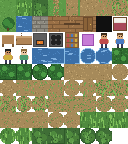
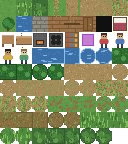
Show cowpaths and overgrowth in the tiles: distinct textures, a legend, +1 day
Worn ground now reads as trodden grass rather than laid road: a track is
grass with bare patches, a cowpath is dark packed earth with grass creeping
in. A legend strip under the header shows every surface at 2x with a label,
and a `+1 day` button skips ahead so the wear and growth can be watched
forming instead of waiting a real half hour per game week.

Claude-Session: https://claude.ai/code/session_01JEHocXSxWmcHsessx9vYd6

diff --git a/packages/viewer/src/main.ts b/packages/viewer/src/main.ts
@@ -2,7 +2,7 @@
 // tools print behind a toggle (and always in `window.__scene()` for the smoke test).
 import * as wasm from "@game-world/sim-wasm";
 import { LocalSim, TICKS_PER_MINUTE, at, type Sim } from "@game-world/protocol";
-import { PlaceCanvas, Tileset } from "./render";
+import { PlaceCanvas, Tileset, legend } from "./render";
 
 const $ = <T extends HTMLElement>(id: string): T => document.getElementById(id) as T;
 const clockEl = $("clock");
@@ -48,6 +48,24 @@ for (const place of world.places) {
   pres.set(place.key, pre);
   canvases.push(canvas);
 }
+// What the ground can look like, so cowpaths and overgrowth are recognisable when they
+// appear. Grass wears to a track and a cowpath where villagers walk; untrodden grass goes
+// tall and then to brush; a laid path goes weedy and then overgrown.
+const legendEl = $("legend");
+legendEl.append(
+  legend(tileset, [
+    ["grass", "grass"],
+    ["track", "track"],
+    ["cowpath", "cowpath"],
+    ["path", "road"],
+    ["weedy_path", "weedy"],
+    ["overgrown_path", "overgrown"],
+    ["tall_grass", "tall grass"],
+    ["brush", "brush"],
+    ["water", "water"],
+  ]),
+);
+
 function fitCanvases(): void {
   const width = placesEl.clientWidth || window.innerWidth;
   for (const c of canvases) c.fit(width - 8);
@@ -177,6 +195,11 @@ $("faster").addEventListener("click", () => {
 });
 $("slower").addEventListener("click", () => {
   speedIndex = Math.max(speedIndex - 1, 0);
+  drawnTick = -1;
+});
+$("day").addEventListener("click", () => {
+  window.__advance(1);
+  paused = false;
   drawnTick = -1;
 });
 $("text").addEventListener("click", () => {

diff --git a/packages/viewer/src/render.ts b/packages/viewer/src/render.ts
@@ -212,3 +212,33 @@ export class PlaceCanvas {
     }
   }
 }
+
+/** A strip of named tiles, for a legend: each tile at 2x with its label underneath. */
+export function legend(tiles: Tileset, entries: [name: string, label: string][]): HTMLCanvasElement {
+  const s = tiles.size;
+  const cellW = 64;
+  const canvas = document.createElement("canvas");
+  canvas.width = entries.length * cellW;
+  canvas.height = s * 2 + 14;
+  canvas.className = "legend";
+  canvas.setAttribute("role", "img");
+  canvas.setAttribute("aria-label", `legend: ${entries.map(([, l]) => l).join(", ")}`);
+  const ctx = canvas.getContext("2d");
+  if (!ctx) return canvas;
+  ctx.imageSmoothingEnabled = false;
+  ctx.font = "10px ui-monospace, monospace";
+  ctx.textAlign = "center";
+  ctx.textBaseline = "top";
+  entries.forEach(([name, label], i) => {
+    const x = i * cellW + (cellW - s * 2) / 2;
+    // Grass behind, so shaped features sit on their background like they do on the map.
+    const t = tiles.atlas.tiles["grass"];
+    if (t) ctx.drawImage(tiles.image, t.col * s, t.row * s, s, s, x, 0, s * 2, s * 2);
+    const full = tiles.has(`${name}_full`) ? `${name}_full` : name;
+    const f = tiles.atlas.tiles[full];
+    if (f) ctx.drawImage(tiles.image, f.col * s, f.row * s, s, s, x, 0, s * 2, s * 2);
+    ctx.fillStyle = "currentColor";
+    ctx.fillText(label, i * cellW + cellW / 2, s * 2 + 2);
+  });
+  return canvas;
+}

diff --git a/packages/viewer/index.html b/packages/viewer/index.html
@@ -12,6 +12,8 @@
       pre { margin: 0; white-space: pre; overflow-x: auto; }
       canvas.place { display: block; image-rendering: pixelated; image-rendering: crisp-edges; }
       #places { grid-column: 1 / -1; }
+      #legend { overflow-x: auto; }
+      canvas.legend { display: block; image-rendering: pixelated; image-rendering: crisp-edges; }
       h2 { font-size: 14px; margin: 8px 0 4px; color: #aaa; }
       button { font: inherit; min-height: 44px; min-width: 64px; }
       .g-ground { color: #5f9a4a; }
@@ -35,10 +37,12 @@
       <button id="pause">pause</button>
       <button id="faster">faster</button>
       <button id="slower">slower</button>
+      <button id="day">+1 day</button>
       <button id="text">text</button>
     </header>
     <main>
       <pre id="everyone"></pre>
+      <div id="legend"></div>
       <div id="places"></div>
     </main>
     <script type="module" src="/src/main.ts"></script>
